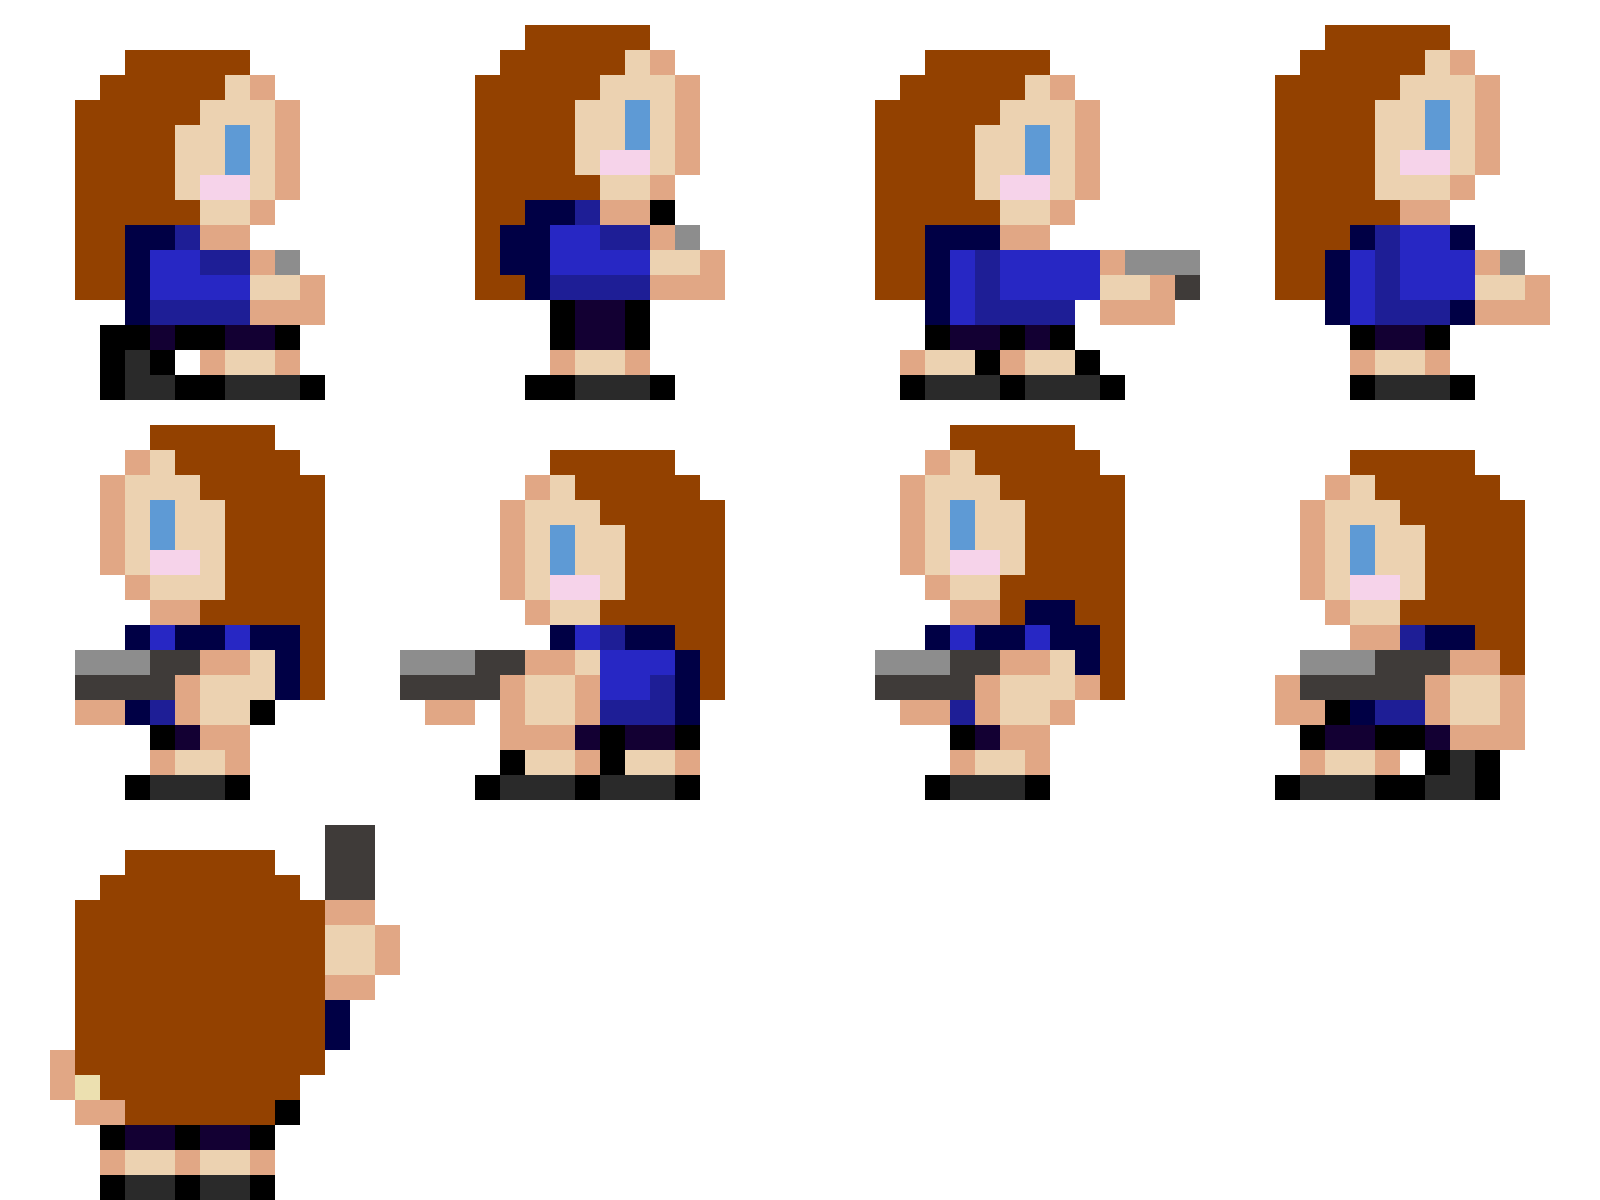
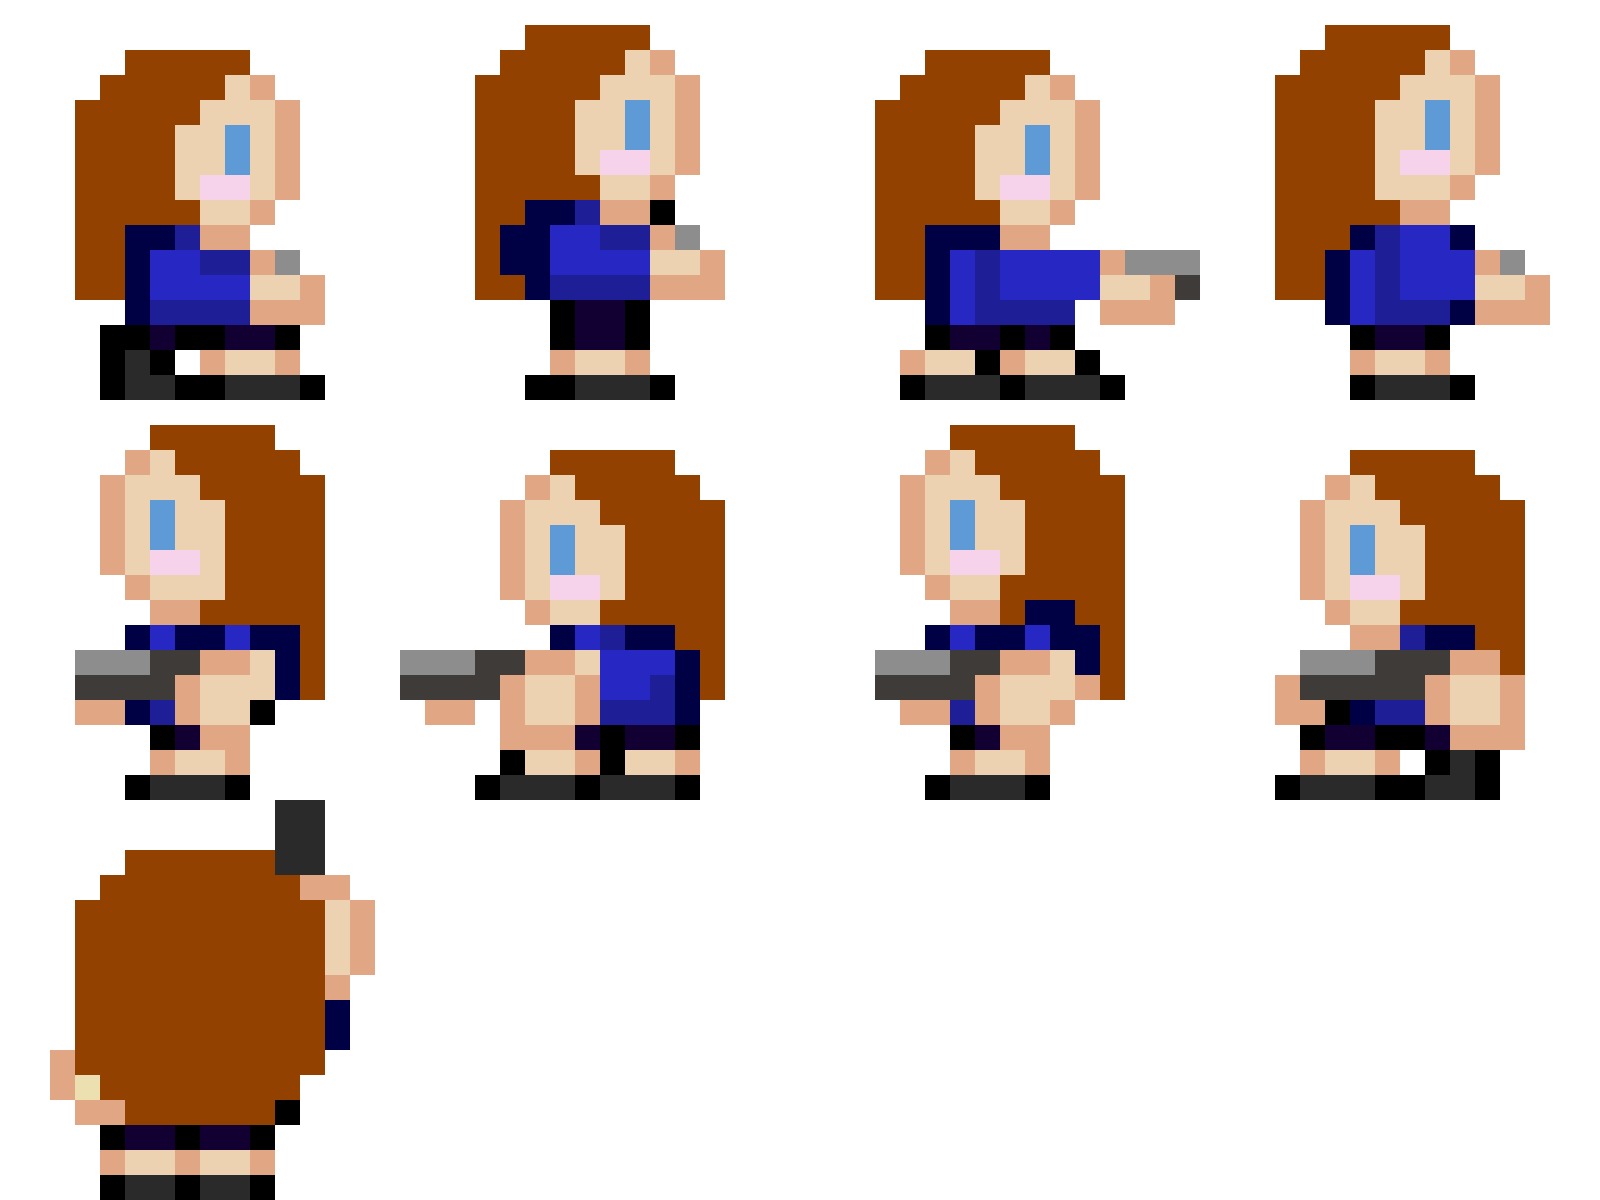
Ajustes en sprites y colision punta de gancho/burbuja

Changed region(s): [[0.1562, 0.6475, 0.25, 0.8325]]

diff --git a/src/js/States.js b/src/js/States.js
@@ -167,11 +167,24 @@ class Main extends Phaser.State{
 	update(){
 	// Colisiones de todas las plataformas con todas las burbujas
 		game.physics.arcade.collide(platforms, bubbles); 
+
+		for(i = 0; i < players.length; i++){
+			game.physics.arcade.overlap(players[i].gancho,bubbles, this.overlapGanchoBurbuja,null,this);
+		}
+
+		//game.physics.arcade.overlap(players[0].gancho,bubbles, this.overlapGanchoBurbuja,null,this);
 	}
 
 	render(){
 		for(i = 0; i < players.length; i++)
 			players[i].gancho.render();
+	}
+
+	overlapGanchoBurbuja(gancho,bubble){
+		console.log("Ouchhhhh");
+		gancho.die();
+		bubble.die(bubbles);
+
 	}
 	
 }

diff --git a/src/js/Gancho.js b/src/js/Gancho.js
@@ -16,7 +16,7 @@ class Gancho extends VerticalMovable{
 		super.revive();
 		super.create();
 		this.rect = new Phaser.Rectangle(0,0,0,0);
-		this.Xply = this.player.body.x;
+		this.Xply = this.player.body.x+50;
 		this.Yply = this.player.body.y;
 
 		this.moveTo(this.Xply,this.Yply);
@@ -54,8 +54,8 @@ class Gancho extends VerticalMovable{
 
 			this.rect.setTo(this.body.x+8, this.body.y, this.rectWidth, this.aux);
 			//console.log(this.rect.height);
-			console.log(this.y);
-			console.log(this.Yply);
+			//console.log(this.y);
+			//console.log(this.Yply);
 			//console.log(this.body.y);
 			//console.log(this.body.x);
 		}

diff --git a/src/js/Player.js b/src/js/Player.js
@@ -43,6 +43,7 @@ class Player extends collideWorld{
     	}
 
     	if (this.cursors.fireButton.downDuration(0.2)){
+    		//this.animations.play('stopAnim', this._animSpeed);				///Intentar poner animacion de apuntando hacia arriba cuando dispara
     		this.gancho.create();
     		this.hayGancho = true;
     	}
